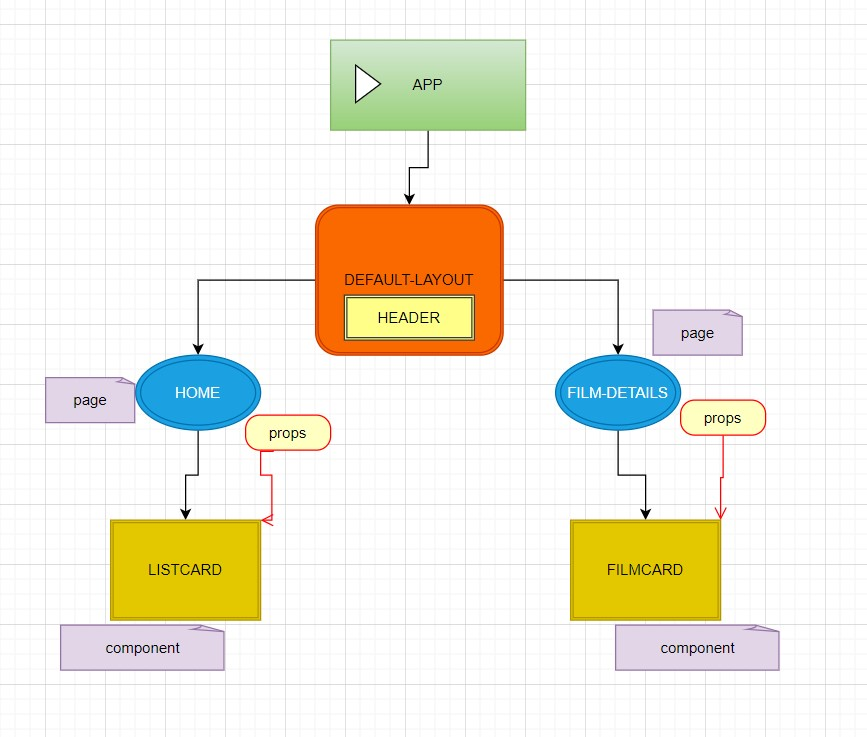
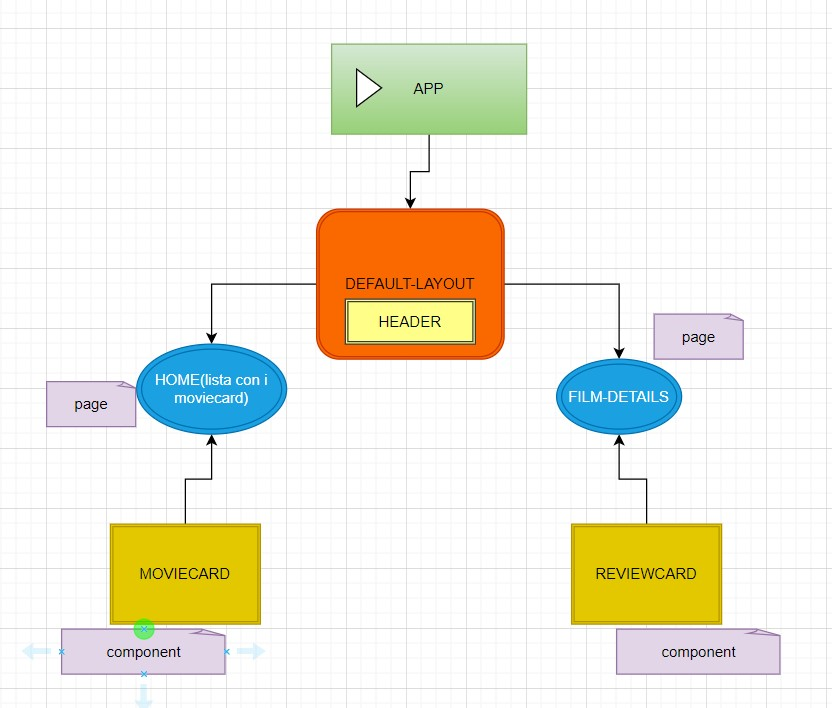
consegna MILESTONE 2 + fixing schema per la webapp

diff --git a/src/App.jsx b/src/App.jsx
@@ -6,7 +6,7 @@ import DefaultLayout from "./layout/DefaultLayout"
 
 // importo homepage e MovieDetailsPage
 import HompePage from "./pages/HomePage"
-// import MovieDetailsPage from "./pages/MovieDetailsPage";
+import MovieDetailsPage from "./pages/MovieDetailsPage";
 
 function App() {
 
@@ -18,7 +18,7 @@ function App() {
       <Routes>
         <Route element={<DefaultLayout />}>
           <Route path="/" element={<HompePage />}></Route>
-          {/* <Route path="/details" element={<MovieDetailsPage />}></Route> */}
+          <Route path="/details" element={<MovieDetailsPage />}></Route>
         </Route>
       </Routes>
     </BrowserRouter>

diff --git a/src/pages/MovieDetailsPage.jsx b/src/pages/MovieDetailsPage.jsx
@@ -1,0 +1,16 @@
+// importo le recensioni da aggiungere alla pagina dei dettagli del film
+import MovieReviewCard from "../components/MovieReviewCard"
+
+// creo funzione che mi ritorni scheda dei dettagli del film
+const MovieDetails = () => {
+    return (
+        <>
+            <h1>titolo moviecard</h1>
+            <label >Regista:</label>
+            <p>voto: davvero un bel film</p>
+            <MovieReviewCard />
+        </>
+    )
+}
+
+export default MovieDetails

diff --git a/src/components/MovieCard.jsx b/src/components/MovieCard.jsx
@@ -1,5 +1,7 @@
-// creazione card 
+// importiamo parte LInk del modulo react-router
+import { Link } from "react-router-dom"
 
+// creazione card 
 export default function MovieCard() {
 
     return (
@@ -7,6 +9,7 @@ export default function MovieCard() {
             <h1>titolo moviecard</h1>
             <label >Regista:</label>
             <p>davvero un bel film</p>
+            <Link to="/details"> <label>dettagli..</label> </Link>
         </>
     )
 

diff --git a/src/components/MovieReviewCard.jsx b/src/components/MovieReviewCard.jsx
@@ -1,0 +1,11 @@
+// creo funzione che generi le recensioni da aggiungere alla scheda dei dettagli del film
+const MovieReview = () => {
+    return (
+        <>
+            <label>Recensione:</label>
+            <p>questa è la Recensione del film..</p>
+        </>
+    )
+}
+
+export default MovieReview

diff --git a/src/layout/DefaultLayout.jsx b/src/layout/DefaultLayout.jsx
@@ -15,7 +15,6 @@ export default function DefaultLayout() {
 
             <main>
                 <Outlet />
-                <span>ciao</span>
             </main>
         </>
     );

diff --git a/src/components/Header.jsx b/src/components/Header.jsx
@@ -1,4 +1,4 @@
-// importiamo parte LInk del modulo react-router
+// importo parte LInk del modulo react-router
 import { Link } from "react-router-dom"
 
 
